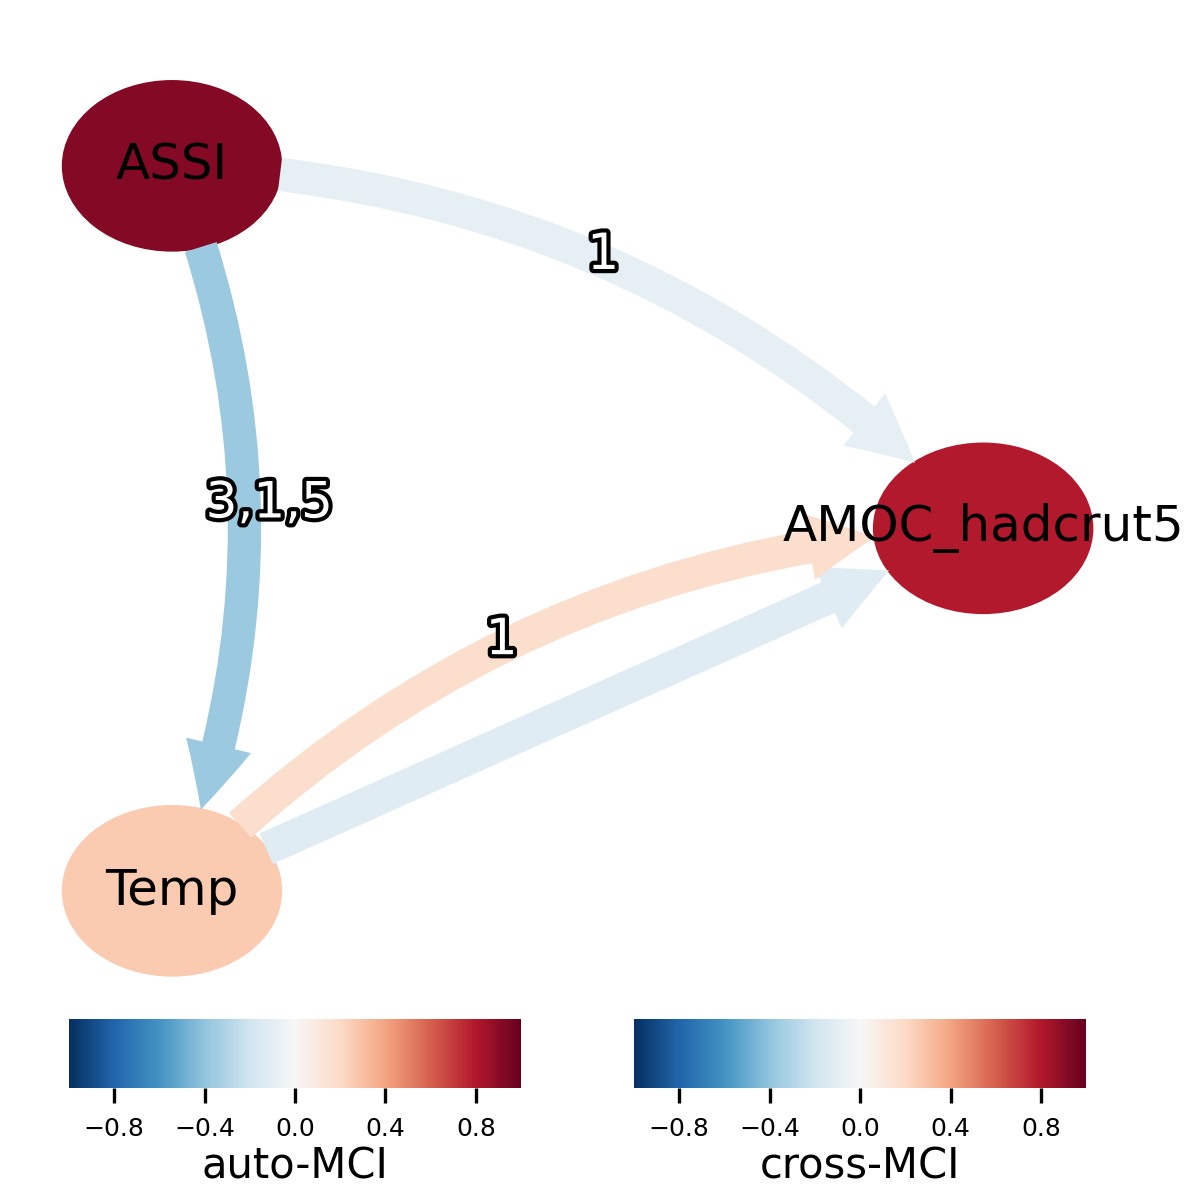
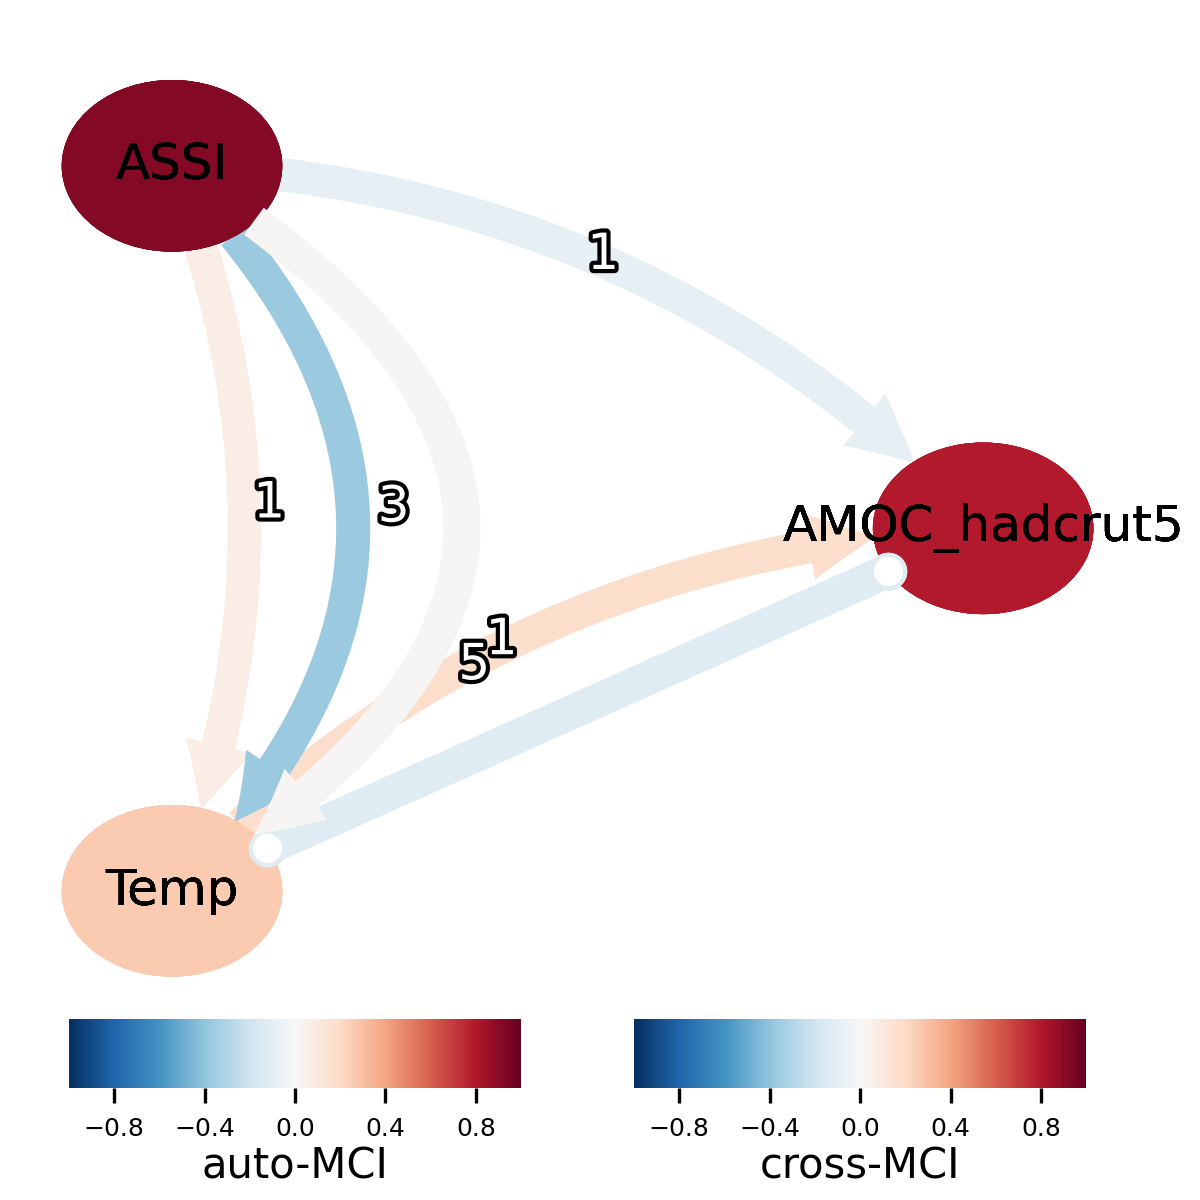
review 1 draft

Changed region(s): [[0.1542, 0.185, 0.4317, 0.74], [0.6783, 0.4317, 0.7708, 0.5242]]

diff --git a/Pipeline.py b/Pipeline.py
@@ -158,6 +158,7 @@ def visualizeGraphOnMap(val_matrix, var_names, filename, assi_file = "ASSI_def.t
     plt.savefig(filename, dpi=300)
 
 def visualizeGraph(val_matrix, graph, columnNames, filename, title="", show = False, save = True, labelType = "PCMCI"):
+    from plot_graph_multilags import plot_graph_multilags
     plotMatrix(val_matrix, columnNames, filename + "matrix")
     auto_colorbar_label = "auto-MCI" if labelType == "PCMCI" else ""
     link_colorbar_label = "cross-MCI" if labelType == "PCMCI" else ("Information Transfer (%)" if labelType == "LKIF" else ("Granger Causality" if labelType == "GCSS" else 0))
@@ -167,10 +168,11 @@ def visualizeGraph(val_matrix, graph, columnNames, filename, title="", show = Fa
         figur, ax = fig
         figur.set_size_inches(4,2)
         if len(graph) > 0:
-            tp.plot_graph(
+            plot_graph_multilags(
             val_matrix=val_matrix,
-            graph=graph,
+            graph=val_matrix,
             var_names=columnNames,
+            curved_radius_step=0.1,
             link_colorbar_label=link_colorbar_label,
             node_colorbar_label=auto_colorbar_label,
             show_autodependency_lags=False,
@@ -182,12 +184,13 @@ def visualizeGraph(val_matrix, graph, columnNames, filename, title="", show = Fa
             show_auto_colorbar=(auto_colorbar_label != "")
             )
         else:
-            matrixFull = np.zeros((val_matrix.shape[0], val_matrix.shape[1],2))
-            matrixFull[:,:,1] = val_matrix
-            tp.plot_graph(
-            val_matrix=matrixFull,
-            graph=matrixFull,
+            # matrixFull = np.zeros((val_matrix.shape[0], val_matrix.shape[1],2))
+            # matrixFull[:,:,1] = val_matrix
+            plot_graph_multilags(
+            val_matrix=val_matrix,
+            graph=val_matrix,
             var_names=columnNames,
+            curved_radius_step=0.1,
             link_colorbar_label=link_colorbar_label,
             node_colorbar_label=auto_colorbar_label,
             show_autodependency_lags=False,
@@ -202,10 +205,11 @@ def visualizeGraph(val_matrix, graph, columnNames, filename, title="", show = Fa
         figur, ax = fig
         figur.set_size_inches(4,4)
         if len(graph) > 0:
-            tp.plot_graph(
+            plot_graph_multilags(
             val_matrix=val_matrix,
-            graph=graph,
+            graph=val_matrix,
             var_names=columnNames,
+            curved_radius_step=0.1,
             link_colorbar_label=link_colorbar_label,
             node_colorbar_label=auto_colorbar_label,
             show_autodependency_lags=False,
@@ -217,12 +221,13 @@ def visualizeGraph(val_matrix, graph, columnNames, filename, title="", show = Fa
             show_auto_colorbar=(auto_colorbar_label != "")
             )
         else:
-            matrixFull = np.zeros((val_matrix.shape[0], val_matrix.shape[1],2))
-            matrixFull[:,:,1] = val_matrix
-            tp.plot_graph(
-            val_matrix=matrixFull,
-            graph=matrixFull,
+            # matrixFull = np.zeros((val_matrix.shape[0], val_matrix.shape[1],2))
+            # matrixFull[:,:,1] = val_matrix
+            plot_graph_multilags(
+            val_matrix=val_matrix,
+            graph=val_matrix,
             var_names=columnNames,
+            curved_radius_step=0.1,
             link_colorbar_label=link_colorbar_label,
             node_colorbar_label=auto_colorbar_label,
             show_autodependency_lags=False,
@@ -645,10 +650,10 @@ if __name__ == "__main__":
             else:
                 matrixLKIF = LKIF.lkif(data.T, alpha, returnAll=False, timestamps = None)
             
-            visualizeGraph(matrixLKIF, [], var_names, directory + "/default_lkif", labelType="LKIF")
+            matrixFull = np.zeros((matrixLKIF.shape[0], matrixLKIF.shape[1],2))
+            matrixFull[:,:,1] = matrixLKIF
+            visualizeGraph(matrixFull, [], var_names, directory + "/default_lkif", labelType="LKIF")
             if plotOnMap:
-                matrixFull = np.zeros((matrixLKIF.shape[0], matrixLKIF.shape[1],2))
-                matrixFull[:,:,1] = matrixLKIF
                 visualizeGraphOnMap(matrixFull, args.map_var_names, directory + "/mapped_lkif", assi_file=assi_file)
 
             if args.causalStationarity:
